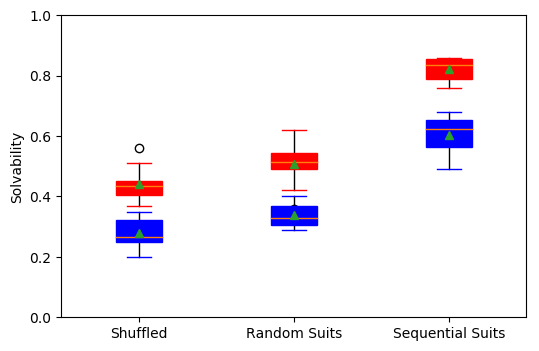
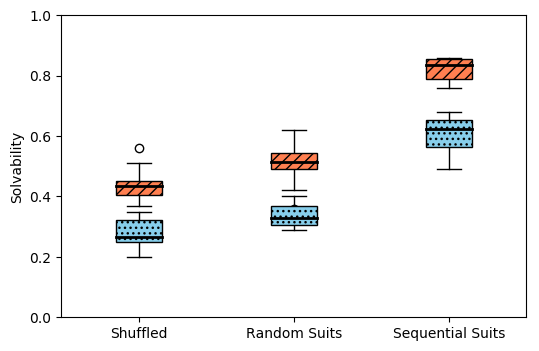
revised figures, more details on entangled components, replaced difficulty with interest

diff --git a/Fujisan.tex b/Fujisan.tex
@@ -629,7 +629,7 @@ E-mail: see http://mark.goadrich.com/schedule.html
 % in the abstract or keywords.
 \IEEEtitleabstractindextext{%
 \begin{abstract}
-    Challenges for physical solitaire puzzle games are typically designed in advance by humans and limited in number. Alternatively, some games incorporate rules for stochastic setup, where the human solver randomly sets up the game board before solving the challenge. \hl{These setup rules} greatly increase the number of possible challenges, but can often generate unsolvable or uninteresting challenges. To better understand \hl{the compromises involved in minimizing undesirable challenges, we examine three games where component design choices can influence the stochastic nature of the resulting challenge generation algorithms.} We evaluate the effect of these components and algorithms on challenge solvability, and challenge difficulty. \hl{We find that algorithms which control randomness through entangling components based on sub-elements of the puzzle mechanics can be simple for the solver to construct yet generate solvable and difficult challenges.}
+    Challenges for physical solitaire puzzle games are typically designed in advance by humans and limited in number. Alternatively, some games incorporate rules for stochastic setup, where the human solver randomly sets up the game board before solving the challenge. \hl{These setup rules} greatly increase the number of possible challenges, but can often generate unsolvable or uninteresting challenges. To better understand \hl{the compromises involved in minimizing undesirable challenges, we examine three games where component design choices can influence the stochastic nature of the resulting challenge generation algorithms.} We evaluate the effect of these components and algorithms on challenge solvability and challenge engagement. \hl{We find that algorithms which control randomness through entangling components based on sub-elements of the puzzle mechanics can be simple for the solver to construct yet generate solvable and interesting challenges.}
 \end{abstract}
 
 % Note that keywords are not normally used for peerreview papers.
@@ -709,11 +709,11 @@ are \hl{physical} solitaire games, for example
 sliding block puzzles \cite{FIFTEEN} (including Rush Hour\footnote{https://www.thinkfun.com/products/rush-hour/}), 
 and Hi-Q (generalized peg solitaire) \cite{PEG}. In these games, solvers must manipulate physical pieces to solve a challenge. Since the initial setup for these games must be executed by the solver, providing the solver with predefined challenges \hl{created offline} and a solution book is common practice. PCG can also be applied to these games by, again, constructing challenges offline and guaranteeing they are solvable, as seen in recent work by Fogleman \cite{RUSHHOUR} and K{\"o}pp \cite{TANGRAM}. 
 
-There are, however, alternative PCG approaches available for physical solitaire games, most popularly demonstrated by the card game Klondike Solitaire. In particular, this game uses an {\it online, stochastic, generate-and-test} PCG algorithm, which is as simple as shuffling the deck of cards at the start of the game. Also of note, the {\it test} portion of the generate-and-test algorithm is left to the solver as they play through the game. Wolter \cite{SOLITAIREVARIANTS} developed the Politaire system, and examines the effect of various shuffling algorithms across multiple solitaire card game variations. One variant called Thoughtful Solitaire, played such that all card locations are known to the solver at the beginning of the game, has been separately found to have setups between 82\% and 91.44\% solvable \cite{THOUGHTFUL}. 
+There are, however, alternative PCG approaches available for physical solitaire games, most popularly demonstrated by the card game Klondike Solitaire \cite{morehead2014complete}. In particular, this game uses an {\it online, stochastic, generate-and-test} PCG algorithm, which is as simple as shuffling the deck of cards at the start of the game. Also of note, the {\it test} portion of the generate-and-test algorithm is left to the solver as they play through the game. Wolter \cite{SOLITAIREVARIANTS} developed the Politaire system, and examines the effect of various shuffling algorithms across multiple solitaire card game variations. One variant called Thoughtful Solitaire, played such that all card locations are known to the solver at the beginning of the game, has been separately found to have setups between 82\% and 91.44\% solvable \cite{THOUGHTFUL}. 
 
-When designing such a random setup process to assemble a challenge, two questions naturally arise: {\it Can all such challenges be solved? How difficult are the created challenges? } \hl{Since these puzzle challenges are created by the solver, they are restricted to using only the components included in the puzzle. However, as much of PCG research involves digital games and puzzles, where algorithms are only limited by computational time and space constraints, there is little research into the relationship between the structural design of physical puzzle components and PCG}. 
+\hl{While some claim that solitaire games without the potential for a winning outcome are ``a rather sad form of amusing oneself,"} \cite{de1981pretzel} \hl{others find a ``catharsis [in] patience" even without perfect solvability} \cite{morehead2014complete}. Thus, when designing such a random setup process to assemble a challenge, \hl{two questions naturally arise for the designer:}{\it What percentage of such challenges can be solved? Are the created challenges interesting?} \hl{Also, since these puzzle challenges are instantiated by the solver, they are restricted to using only the components included in the puzzle. However, as much of PCG research involves digital games and puzzles, where algorithms are only limited by computational time and space constraints, there is little research into the relationship between the structural design of physical puzzle components and PCG}. 
 
-\hl{To understand this relationship, we examine three different styles of physical solitaire games with perfect information that incorporate} {\it online, stochastic, generate-and-test} \hl{PCG algorithms for challenge setup: BoxOff} \cite{BoxOffGAMES} \hl{, a token removal puzzle, Pretzel} \cite{de1981pretzel} \hl{, a card arrangement puzzle, and Fujisan\footnote{http://www.ludism.org/ppwiki/Fuji-san}, a transportation puzzle. Each of these puzzles includes a basic algorithm where simple components (tokens or cards) are randomly shuffled to create a challenge. We define these components to become} {\it entangled} \hl{if their arrangement is no longer independent, either due to algorithmic constraints, or having been subsumed by new, larger components.} We provide detailed descriptions of \hl{entangled game components and} challenge setup algorithms \hl{for each game}, then compare and contrast these using computational \hl{Monte Carlo} simulations. Finally, we evaluate these algorithms with respect to solvability and difficulty. We find that \hl{entanglements allow the incorporation of desirable constraints based on each puzzle's mechanics are thus more successful across both metrics}.
+\hl{To understand this component/algorithm relationship, we examine three different styles of physical solitaire games with perfect information that incorporate} {\it online, stochastic, generate-and-test} \hl{PCG algorithms for challenge setup: BoxOff} \cite{BoxOffGAMES} \hl{, a token removal puzzle, Pretzel} \cite{de1981pretzel} \hl{, a card arrangement puzzle, and Fujisan\footnote{http://www.ludism.org/ppwiki/Fuji-san}, a transportation puzzle. Each of these puzzles includes a basic algorithm where simple components (tokens or cards) are randomly shuffled to create a challenge. We define these components to become} {\it entangled} \hl{if their arrangement is no longer independent, either due to algorithmic constraints, or having been subsumed by new, larger components.} We provide detailed descriptions of \hl{entangled game components and} challenge setup algorithms \hl{for each game}, then compare and contrast these using computational \hl{Monte Carlo} simulations. Finally, we evaluate these algorithms with respect to solvability and interest. We find that \hl{entanglements that incorporate desirable constraints based on each puzzle's mechanics are more successful across both metrics}.
 
 %==================================
 
@@ -730,7 +730,7 @@ BoxOff is a 2D token removal puzzle designed by Stephen Myers  \cite{BoxOffGAMES
 Figure \ref{fig:boxoffbig}. The challenge is solved when every square in the grid has been eliminated.  The solver can eliminate two squares of the same color at a time if either of the following two rules apply.
 \begin{enumerate}
     \item The two squares are adjacent.
-    \item All other squares inside the box that circumscribes the two squares have previously been eliminated.\footnote{Rule 1 is actually subsumed by this rule, however, we find it helpful to separate them into two cases to facilitate our component design discussions later.}
+    \item All other squares inside the box that circumscribes the two squares have previously been eliminated.\footnote{Rule 1 is actually subsumed by this rule, however, we find it helpful to separate them into two cases to facilitate our component design discussions.}
 \end{enumerate}
 
 Figure \ref{fig:boxoffrules} shows an in-progress BoxOff challenge. The solver has a few options available, two of which are highlighted in dashed boxes. They could eliminate the two yellow squares in the upper-left quadrant using Rule 1, or eliminate the two blue squares in the middle using Rule 2. An invalid move is also shown in the upper right quadrant, where Rule 2 would not apply because of the blue square in the circumscribed box around the two red squares.
@@ -743,7 +743,7 @@ Figure \ref{fig:boxoffrules} shows an in-progress BoxOff challenge. The solver h
 \end{figure}
 
 
-Browne and Maire previously investigated altering the game design parameters for BoxOff using Monte Carlo simulation \cite{MCPUZZLE}. They explored multiple grid sizes and numbers of colors, ultimately finding that challenges generated for the original 6$\times$8 puzzle configuration described by Myers were highly solvable and robust against random solvers. Other configurations, either of smaller board sizes, or more colors, exhibited poor solvability. In particular, we will examine the 4$\times$6 board with four colors, where challenge solvability was approximately 25\%, and the 6$\times$6 board with six colors, where challenge solvability was less than 5\%.
+Browne and Maire previously investigated altering the game design parameters for BoxOff using Monte Carlo simulation \cite{MCPUZZLE}. They explored multiple grid sizes and numbers of colors, $(k, n, c)$, where $k \times n$ is the size of the grid, and $c$ is the number of colors, ultimately finding that challenges generated for the original (6, 8, 3) puzzle configuration described by Myers were highly solvable and robust against random solvers. Other configurations, either of smaller board sizes, or more colors, exhibited poor solvability. In particular, we will examine the (4, 6, 4) puzzle, where challenge solvability was approximately 25\%, and the (6, 6, 6) puzzle, where challenge solvability was less than 5\%.
 
 %\begin{figure}[t]
 %\centering
@@ -761,7 +761,7 @@ With these components, the solver can employ a simple shuffling algorithm to cre
     {\it \bf Shuffled:} Shuffle the color tokens randomly, and arrange them into a grid.
 \end{quote}
 
-THIS NEEDS WORK FOR BOTH 4x6 and 6x6
+THIS NEEDS WORK FOR BOTH (4, 6, 4) and (6, 6, 6)
 We can use the multinomial theorem to determine that this method can create
 $\frac{24!}{4!^{6}??} \approx 10^{???}$ possible challenges.  We divide by ?????? here and in subsequent calculations to account for BoxOff challenges displaying rotational, horizontal, and vertical symmetry, however, this slightly underestimates due to some challenges displaying more than one symmetry.
 
@@ -770,7 +770,7 @@ This shuffling works well on moderate sized boards with few colors, but as demon
 \begin{figure}[t]
 \centering
 \includegraphics[width=6.6cm]{boxoff666basic.png}
-\caption{A Sample 6$\times$6 BoxOff challenge with six colors, generated with a simple shuffle of the 36 color tokens. }
+\caption{A sample (6, 6, 6) BoxOff challenge, generated with a simple shuffle of the 36 color tokens. }
 \label{fig:boxoff666}
 \end{figure}
 
@@ -792,7 +792,7 @@ For both the 4$\times$6 and 6$\times$6 grids, each tile is composed of exactly t
 \begin{figure}[t]
 \centering
 \includegraphics[width=8.8cm]{boxoffcycle.png}
-\caption{Cycle of color connections used to construct L-shaped tiles for BoxOff challenges, 4$\times$6 with four colors on the left, and 6$\times$6 BoxOff challenges with six colors on the right.}
+\caption{Cycle of color connections used to construct L-shaped tiles for BoxOff challenges, (4, 6, 4) on the left, and (6, 6, 6) challenges on the right.}
 \label{fig:boxoffcycle}
 \end{figure}
 
@@ -804,54 +804,48 @@ The algorithm to create a challenge then is as follows:
     {\it \bf L-Tiles:} Shuffle and flip the tiles randomly, then arrange into a grid of connected 2$\times$3 subgrids. 
 \end{quote}
 
-Figure \ref{fig:boxofftiles} shows a 4$\times$6 grid created with L-tiles. To physically play BoxOff with this tile setup, the solver will need to place neutral tokens on each square as they are eliminated, continuing until the board is full of tokens. 
+Figure \ref{fig:boxofftiles} shows a (4, 6, 4) grid created with L-tiles. To physically play BoxOff with this tile setup, the solver will need to place neutral tokens on each square as they are eliminated, continuing until the board is full of tokens. 
 
 \begin{figure}[t]
 \centering
 \includegraphics[width=6.6cm]{boxoff46tiles.png}
-\caption{A sample 4$\times$6 BoxOff challenge with four colors, generated using L-shaped tiles. }
+\caption{A sample (4, 6, 4) BoxOff challenge, generated using L-shaped tiles. }
 \label{fig:boxofftiles}
 \end{figure}
 
 \subsection{Evaluation}
 
 We encoded a Monte Carlo BoxOff challenge generator using C\#, and implemented a breadth-first solver for BoxOff challenges. For each PCG algorithm, we generated 1000 random challenges. For each generated challenge in our trials, we recorded if the challenge was solvable. The code used for our simulations is available on Github \footnote{http://github.com/mgoadric/fujisan}. 
-To enable testing for statistical significance on solvability between these algorithms, we divided our pool of generated challenges into 10 trials of 100 challenges. We repeated this for both the 4$\times$6 with four colors puzzle and the 6$\times$6 with six colors puzzle.
+To enable testing for statistical significance on solvability between these algorithms, we divided our pool of generated challenges into 10 trials of 100 challenges. We repeated this for both the (4, 6, 4) puzzle and the (6, 6, 6) puzzle.
  
-We will use the two criteria of solvability and difficulty to quantify each of the above \hl{components and algorithms. }
-First, we judge a PCG algorithm to be working well when a high percentage of generated challenges are solvable by our solver. Beyond solvability, we also wish for PCG algorithms to have a strong inclination to generate interesting and difficult challenges for the solver. 
+We will use two criteria to quantify each of the above components and algorithms.
+First, we judge a PCG algorithm to be working well when a high percentage of generated challenges are solvable by our solver. Beyond solvability, we also wish for PCG algorithms to have a strong inclination to generate interesting challenges for the solver. 
 
 \subsubsection{Solvability}
 
 \begin{figure}[t]
-\includegraphics[width=8.8cm]{boxonsolve.png}
-\caption{Effect of challenge generation algorithms on solvability for BoxOff 4$\times$6 with four colors. $P(S_p)$ denoted in red, and $P(S_r)$ shown in blue.}
+\includegraphics[width=8.8cm]{boxoffsolvability.png}
+\caption{Effect of challenge generation algorithms on solvability for BoxOff (4, 6, 4) and (6, 4, 6). $P(S_p)$ denoted in red, and $P(S_r)$ shown in blue.}
 \label{fig:boxoffsolvediff}
 \end{figure}
 
-\begin{figure}[t]
-\includegraphics[width=8.8cm]{6x6solvediff.png}
-\caption{Effect of challenge generation algorithms on solvability for BoxOff 6$\times$6 with six colors. $P(S_p)$ denoted in red, and $P(S_r)$ shown in blue.}
-\label{fig:boxoff666solvediff}
-\end{figure}
-
-Figure \ref{fig:boxoffsolvediff} shows the challenge solvability in red for the 4$\times$6 with four color BoxOff. This plot displays the distribution of the two PCG algorithms across the 10 trials in a box-and-whisker plot. The mean for each method is marked with a green triangle. 
+Figure \ref{fig:boxoffsolvediff} shows the challenge solvability, in red with slashes, for the (4, 6, 4) BoxOff. This plot displays the distribution of the two PCG algorithms across the 10 trials in a box-and-whisker plot.  
 
 We find the {\bf L-Tiles} setup method produces solvable challenges at a probability of 0.88, a marked increase over the {\bf Shuffled} probability of 0.27, with this difference being statistically significant.
-Similarly, Figure \ref{fig:boxoff666solvediff} shows the solvability distributions in red for the 6$\times$6 with six color puzzle. We again see a drastic increase in solvability, moving from 0.03 for {\bf Shuffled} up to 0.57 for {\bf L-Tiles}. 
+Similarly, Figure \ref{fig:boxoffsolvediff} also shows the solvability distributions in red for the (6, 6, 6) puzzle. We again see a drastic increase in solvability, moving from 0.03 for {\bf Shuffled} up to 0.57 for {\bf L-Tiles}. 
 
-\subsubsection{Difficulty}
+\subsubsection{Interest}
 
-Following Browne and Maire \cite{MCPUZZLE}, if a challenge is solvable by the solver choosing random moves each time, then the challenge lacks difficulty and interest. Denoting the probability of solvability using the breadth-first search solver as $P(S_p)$ and the probability of the random solver as $P(S_r)$, we can calculate $P(S_p) - P(S_r)$, the difference between the intelligent and random solvability. Figures \ref{fig:boxoffsolvediff} and \ref{fig:boxoff666solvediff} also show in blue the solvability rate for these algorithm when using a random solver. 
+Following Browne and Maire \cite{MCPUZZLE}, if a challenge is solvable by the solver choosing random moves each time, then the challenge lacks interest. Denoting the probability of solvability using the breadth-first search solver as $P(S_p)$ and the probability of the random solver as $P(S_r)$, we can calculate $P(S_p) - P(S_r)$, the difference between the intelligent and random solvability. Figure \ref{fig:boxoffsolvediff} also shows, in blue with dots, the solvability rate for these algorithm when using a random solver. 
 
-We see in both cases for {\bf L-Tiles}, there is an increase in the random solver performance over {\bf Shuffled}. However, there remains a significant gap between the general and random solvability in both puzzles. For the 4$\times$6 with four colors, this difference is 0.62, and for 6$\times$6 with six colors, this difference is 0.495. We can conclude that while more easy challenges generated from {\bf L-Tiles}, the large majority of generated solvable challenges involve difficult solutions.
+We see in both cases for {\bf L-Tiles}, there is an increase in the random solver performance over {\bf Shuffled}. However, there remains a significant gap between the general and random solvability in both puzzles. For the (4, 6, 4) puzzle, this difference is 0.62, and for the (6, 6, 6) puzzle, this difference is 0.495. We can conclude that while more easy challenges generated from {\bf L-Tiles}, the large majority of generated solvable challenges involve interesting solutions.
 
 %=================================================
 
 \section{Pretzel}
 The Montana family of patience card games includes variations such as Gaps, Spaces, Vacancies, Clown, Paganini, Red Moon, and Blue Moon. One variant, which allows no re-shuffles or re-deals, is a puzzle described and named by de Bruijn \cite{de1981pretzel}, called Pretzel solitaire.
 
-Shuffle a deck of $S$ suits, each with $V$ values. Deal the shuffled cards face-up into a grid with $S$ rows, each with $V$ columns. Remove the lowest valued card of each suit (traditionally aces) and place them in a new column to the left of the existing grid in a prescribed order (traditionally, from top to bottom: spades, hearts, diamonds, clubs). Doing so vacates $S$ cells in the grid, thereafter called holes. A sample Pretzel setup with $S=4$ and $V=4$ is shown in Figure \ref{fig:pretzelbasic}.
+To set up a Pretzel challenge, denoted as $(S,V)$, the solver shuffles a deck of $S$ suits, each with $V$ values. They deal the shuffled cards face-up into a grid with $S$ rows, each with $V$ columns. They then remove the lowest valued card of each suit (traditionally aces) and place them in a new column to the left of the existing grid in a prescribed order (traditionally, from top to bottom: spades, hearts, diamonds, clubs). Doing so vacates $S$ cells in the grid, thereafter called holes. A sample Pretzel setup with $S=4$ and $V=4$ is shown in Figure \ref{fig:pretzelbasic}.
 
 The solver's goal is to arrange all cards into ascending sorted order, one suit per row, following a single rule:
 
@@ -883,10 +877,14 @@ In his earlier paper, de Bruijn empirically established a solvability of 45\% fo
     {\bf Random Suits:} Divide the deck into $S$ smaller decks, each comprising all cards of a single suit. Shuffle each small deck separately. Next, take the top card of each small deck, shuffle these $S$ cards together, and deal them out. Again, take the top card of each small deck, shuffle these cards together, and continue dealing out. Proceed in like fashion until all cards have been dealt.
 \end{quote}
 
-HOW TO CONSTRUCT THE FOLLOWING AS A GENERALIZED EXPRESSION?
+%HOW TO CONSTRUCT THE FOLLOWING AS A GENERALIZED EXPRESSION?
 
 The number of challenges that can result from the Random Suits setup algorithm for the (4,4) case is
-(16 \times 12 \times 8 \times 4) \times (12 \times 9 \times 6 \times 3) \times (8 \times 6 \times 4 \times 2) \times (4 \times 3 \times 2 \times 1) \approx $10^{11}$.
+$\prod_{n = 1}^4n^4(4!)
+%(16 \times 12 \times 8 \times 4) \times (12 \times 9 \times 6 \times 3) \times (8 \times 6 \times 4 \times 2) \times (4 \times 3 \times 2 \times 1) 
+\approx 10^{11}$.
+
+WHICH 4 IS V and WHICH IS S?
 
 \begin{quote}
     {\bf Sequential Suits:} Divide the deck into $S$ smaller decks, each comprising all cards of a single suit. Shuffle each small deck separately. Deal the top card from the first small deck, then the top card from the second small deck, and so on.  After the top card of each small deck has been dealt, return to the first small deck and deal the top card, then the top card of the second small deck, etc. Proceed in like fashion until all cards have been dealt.
@@ -894,9 +892,8 @@ The number of challenges that can result from the Random Suits setup algorithm f
 
 The Sequential Suits setup algorithm generates $V!^{S}$ distinct challenges. For the (4,4) case, there are $4!^{4} \approx 10^{5}$ distinct challenges.
 
-Depending on the ratio of $S$ to $V$, challenges generated by this algorithm exhibit distinct vertical or diagonal suit stripes or patterns across the play grid.
-
 Figure \ref{fig:pretzelsequential} shows a sample Pretzel solitaire challenge with four suits and eight ranks, generated with the Sequential Suits method.
+Depending on the ratio of $S$ to $V$, challenges generated by this algorithm exhibit distinct vertical or diagonal suit stripes or patterns across the play grid. 
 
 \begin{figure}[t]
 \centering
@@ -905,18 +902,17 @@ Figure \ref{fig:pretzelsequential} shows a sample Pretzel solitaire challenge wi
 \label{fig:pretzelsequential}
 \end{figure}
 
-
 \subsection{Evaluation}
 
 As with BoxOff, we encoded a Monte Carlo Pretzel challenge generator using C\#, and a breadth-first solver for Pretzel challenges. For each PCG algorithm, we generated 1000 random challenges. For each generated challenge in our trials, we recorded whether the challenge was solvable, and if so, we also recorded the minimum solution length found with our solver. The code used for our simulations is available on Github \footnote{http://github.com/jdroscha/pretzel-solitaire-solver}. To enable testing for statistical significance on solvability between these algorithms, we divided our pool of generated challenges into 10 trials of 100 challenges. 
 
-Figure \ref{fig:pretzel44solved} shows the distribution of solvability for the three PCG algorithms across the 10 trials in a box-and-whisker plot for the (4,4) case. The mean for each method is marked with a green triangle.
+\subsubsection{Solvability}
+Figure \ref{fig:pretzel44solved} shows the distribution of solvability for the three PCG algorithms across the 10 trials in a box-and-whisker plot for the (4,4) case. 
 
 Figure \ref{fig:pretzel44solved} also illustrates the susceptibility of the (4,4) case to solution by random decisions during play, an undesirable trait. By adding a full decision tree analysis to our solver, we determined the somewhat surprising cause for the high rate of success exhibited by random play. For the (4,4) case, nearly one in three solvable challenges is unlosable. In such ``challenges'', any sequence of legal moves eventually leads to the solution state.
 
 %\subsubsection{Ease of Physical Setup}
 
-\subsubsection{Solvability}
 
 \begin{figure}[t]
 \includegraphics[width=8.8cm]{pretzelsolve4x4.png}
@@ -924,7 +920,7 @@ Figure \ref{fig:pretzel44solved} also illustrates the susceptibility of the (4,4
 \label{fig:pretzel44solved}
 \end{figure}
 
-\subsubsection{Difficulty}
+\subsubsection{Interest}
 For the 4x4
 
 Shuffled $P(S_p) - P(S_r) = 0.162$
@@ -947,7 +943,7 @@ Sequential Suits $P(S_p) - P(S_r) = 0.219$
 \end{figure}
 
 \begin{figure}[t]
-\includegraphics[width=8.8cm]{pretzel48lengthhist.png}
+\includegraphics[width=8.8cm]{pretzel48length.png}
 \caption{Effect of challenge generation algorithms on solution length for Pretzel, four suits and eight ranks.}
 \label{fig:pretzelfullsolve}
 \end{figure}
@@ -1103,26 +1099,31 @@ We encoded a Monte Carlo Fujisan challenge generator using C\#, along with an A*
 For each generated challenge in our trials, we recorded if the challenge was solvable, and if so, we also recorded the minimum solution length found with our A* solver. The code used for our simulations is available on Github \footnote{http://github.com/mgoadric/fujisan}. 
 \hl{To enable testing for statistical significance on solvability between these algorithms, we divided our pool of generated challenges into 10 trials of 100 challenges. }
  
-Figure \ref{fig:strategycomp} shows the distribution of solvability for the four PCG algorithms across the 10 trials in a box-and-whisker plot. The mean for each method is marked with a green triangle. Each method produces a healthy \hl{probability} of solvable challenges; every trial was above 75\% solvable. {\bf Shuffled} \hl{has} the lowest mean value for solvability and \hl{this} result is significantly lower than the other three algorithms, which is confirmed by t-tests using a p-value of 0.05. Within the top three algorithms, only {\bf Dominoes} is statistically higher than {\bf piecepack}. 
+Figure \ref{fig:strategycomp} shows the distribution of solvability for the four PCG algorithms across the 10 trials in a box-and-whisker plot. Each method produces a healthy \hl{probability} of solvable challenges. {\bf Shuffled} \hl{has} the lowest mean value for solvability at 85\% and \hl{this} result is significantly lower than the other three algorithms, which is confirmed by t-tests using a p-value of 0.05. Within the top three algorithms, only {\bf Dominoes} is statistically higher than {\bf piecepack}. 
 
-SAY MORE HERE NOW THAT CONNECTEDNESS IS IN GENERAL DISCUSSION BELOW
-\subsubsection{Difficulty}
+\subsubsection{Interest}
 
-Unfortunately, the difficulty metric of Browne and Maire \cite{MCPUZZLE} is unsuitable for Fujisan. Across all of our PCG algorithms, we found that $P(S_r)$, the probability that a random solver would win, was less than 0.003, making their $P(S_p) - P(S_r)$ metric equivalent to solvability. 
+Applying the interest metric of Brown and Maire \cite{MCPUZZLE} across all of our PCG algorithms, we found that $P(S_r)$, the probability that a random solver would win, was less than 0.003, making $P(S_p) - P(S_r)$ equivalent to solvability. \hl{As our goal is to determine if the above algorithms change the interest distribution of generated challenges, we consider two other measures found by 
+Jaru{\v{s}}ek and Pel{\'a}nek to sometimes correlated with challenge difficulty 
+the minimum number of moves required to solve the challenge, and the number of counter-intuitive moves along the minimum solution path.} \cite{jaruvsek2010difficulty}
+\cite{jaruvsek2011determines}
 
-Instead, we define challenge difficulty here to be the minimum number of moves required to solve the challenge, and are interested in the distribution of challenge difficulties generated by each algorithm. We compare here the median level of challenge difficulty generated by each algorithm. The shortest possible solution to a Fujisan challenge involves eight moves, while 
+\hl{First, we determined that a move in Fujisan is counter-intuitive if it involves moving a Priest further away from the summit. For each solvable challenge, we counted the number of counter-intuitive moves used on the minimum solution path length. Using this metric, values ranged from 0-8, and we found that there was no statistical difference between the four algorithms.}
+
+Second, we calculated the distribution of \hl{minimum solution path length} generated by each algorithm. We compared here the median \hl{length} generated by each algorithm. The shortest possible solution to a Fujisan challenge involves eight moves, while 
 the longest-known constructed challenge requires 62 moves\footnote{http://www.ludism.org/ppwiki/Fuji-san\#Heading9}.
 
 \begin{figure}[t]
 \centering
 \includegraphics[width=8.5cm]{standalonediff2.png}
-\caption{Histograms showing the effect of challenge generation algorithms on difficulty.}
+\caption{Histograms showing the effect of challenge generation algorithms on minimum solution length.}
 \label{fig:difficultycomp}
 \end{figure}
 
-Figure \ref{fig:difficultycomp} shows histograms of the minimum solution length for solvable challenges, pooled across all trials for each algorithm. The median is denoted with a dotted line. Our algorithms appear to follow a Poisson distribution rather than a normal distribution, since the smallest possible solution length for any challenge is 8, and the maximum solution length is currently unbounded. We employ a Kruskal-Wallis H-test \cite{KRUSKAL} to determine if the median difficulty of our four algorithms is statistically the same, and we reject this null hypothesis very strongly, with a p-value of $6.4 \times 10^{-9}$.
+Figure \ref{fig:difficultycomp} shows histograms of the minimum solution length for solvable challenges, pooled across all trials for each algorithm. The median is denoted with a dotted line. Our algorithms appear to follow a Poisson distribution rather than a normal distribution, since the smallest possible solution length for any challenge is 8, and the maximum solution length is currently unbounded. We employ a Kruskal-Wallis H-test \cite{KRUSKAL} to determine if the median length of our four algorithms is statistically the same, and we rejected this null hypothesis very strongly, with a p-value of $6.4 \times 10^{-9}$.
 
-The algorithm responsible for this result is {\bf Engraved Tiles}. We can see a strong tendency to have shorter solution lengths, with almost 10\% of challenges having a solution length of eight or nine, whereas for {\bf Dominoes}, this is true for only 3\% of challenges. In {\bf Engraved Tiles}, there are five tiles that contain a 0 value; since there will be ten total tiles hidden, on average a challenge will contain 2.5 zeros values. It appears that 0 values are one part of what makes Fujisan challenges interesting, since having fewer 0 values decreases the challenge difficulty.
+The algorithm responsible for this result was {\bf Engraved Tiles}. We can see a strong tendency to have shorter solution lengths, with almost 10\% of challenges having a solution length of eight or nine, whereas for {\bf Dominoes}, this is true for only 3\% of challenges. In {\bf Engraved Tiles}, there are five tiles that contain a 0 value; since there will be ten total tiles hidden, on average a challenge will contain 2.5 zeros values. It appears that 0 values are one part of what makes Fujisan challenges interesting.
+
 
 %==========================================================
 
@@ -1168,36 +1169,31 @@ The algorithm responsible for this result is {\bf Engraved Tiles}. We can see a 
 
 %Table \ref{table_example} summarizes our results on the three evaluation metrics. We can see computational evidence that the original {\bf piecepack} ruleset is an improvement over both the {\bf Pure Random} and {\bf Shuffled} setup algorithm as hoped by the designer. While {\bf Engraved Tiles} simplifies the ease of physical setup over the {\bf piecepack} version, it is at the cost of challenge difficulty. The {\bf Dominoes} algorithm maintains this easy setup and returns the challenge generation to a reasonable difficulty distribution.
 
-In each of the explored puzzles above, we see that entangled components can be used to produce challenges with higher solvability without sacrificing the interesting qualities of the puzzle. Here we provide evidence that this is due to aligning the entanglements with desirable portions of the underlying puzzle mechanics. 
+\hl{Recall that we define components to become} {\it entangled} \hl{if their arrangement is no longer independent, either due to algorithmic constraints, or having been subsumed by new, larger components. In each of the explored puzzles above, we see that entangled components can be used to produce challenges with higher solvability without sacrificing the interesting qualities of the puzzle. Here we provide evidence that this is due to aligning the entanglements with desirable portions of the underlying puzzle mechanics. For each puzzle, metrics can be found that are correlated with higher solvability. Entangled components can then be biased toward solvability by encouraging these metrics in generated challenges.}
 
 %Why does entanglement work for BoxOff?
 
-In BoxOff, Rule 1 underscores the importance of adjacent grid squares of the same color, as they are the first moves available in the game. The 4$\times$6 board contains 38 unique pairs of adjacent grid squares. If we randomly distribute the 4 colors, on average a pair will be the same color 22\% of the time. However, if we separate the generated challenges by solvability, we see in Figure \ref{fig:boxoffconnected} that while unsolvable challenges average pair equality is 20\%, for solvable challenges the average increases to 26\%, and this difference is statistically significant.
+In BoxOff, Rule 1 underscores the importance of adjacent grid squares of the same color, as they are the first moves available in the game. The (4, 6, 4) board contains 38 unique pairs of adjacent grid squares. If we randomly distribute the four colors using the {\bf Shuffled} method, on average a pair will be the same color 22\% of the time. We define this metric as {\it pair equality}. However, if we separate the generated challenges by solvability, we see in Figure \ref{fig:boxoffconnected} that while unsolvable challenges average pair equality is 20\%, for solvable challenges the average increases to 26\%, and this difference is statistically significant.
 
-Through entanglement, the L-Tiles constrain adjacent pairs such that at least eight of them to be the same color, resulting is a minimum of 21\% pair equality. Thus, L-Tile challenges are more likely to be in the solvable range, as shown in ,.... FINISH ME. 
-32\% untiles
-34\% tiles
-again significant
+Through entanglement, the {\bf L-Tiles} constrain adjacent pairs such that at least eight of them are the same color, resulting is a minimum of 21\% pair equality. Thus, L-Tile challenges are more likely to be in the solvable range, as shown in Figure \ref{fig:boxoffconnected}, with 32\% pair equality for unsolvable L-Tile challenges, and 34\% pair equality for those that are solvable.
 
 \begin{figure}[t]
-\includegraphics[width=8.8cm]{boxoffneighborsim.png}
-\caption{Average neighbor similarity for 4$\times$6 with four color BoxOff challenges across each setup algorithm. }
+\includegraphics[width=8.8cm]{pairequal.png}
+\caption{Average pair equality for (4, 6, 4) color BoxOff challenges across each setup algorithm. Solvable challenges shown in black, and unsolvable challenges shown in white.}
 \label{fig:boxoffconnected}
 \end{figure}
 
-Why does entanglement work for Pretzel?????
+WHY DOES ENTANGLEMENT WORK FOR PRETZEL??????
 
+For Fujisan, the entangled components are a direct result of the puzzle movement mechanics. We first develop a metric called {\it connectivity} based on Rule 2 to explore the connections between steps in a challenge. We say step $A$ is connected to step $B$ in Fujisan if there is a move available according to Rule 2 from $B$ to $A$. This metric, only an approximation of true puzzle connectivity as it ignores connections possible from Rule 2.a with intermediate Priests, contains enough information to bias our entangled components. 
 
-Why does entanglement work for Fujisan?
+Figure \ref{fig:connected} shows the average step connectivity within a challenge for each setup algorithm, differentiating solvable challenges in black from unsolvable challenges in white. 
+In the {\bf Shuffled} algorithm, we can see a large divide between solvable and unsolvable challenges, and across all algorithms, higher connectivity is always related to higher solvability. Also, both {\bf piecepack} and {\bf Dominoes} require that each step has two unique values. In these two algorithms, this uniqueness constraint strongly increases the connectivity of both solvable and unsolvable challenges, but the divide remains intact.
 
-For Fujisan, there are elements of two puzzle mechanics that are incorporated into the entangled components. We first explore the connections between steps in a challenge. We say step $A$ is connected to step $B$ in Fujisan if there is a move available according to Rule 2 from $B$ to $A$. While critical to solving most challenges, we simplify our connectedness calculation by ignoring the impact of intermediate Priests between $B$ and $A$. 
-
-Figure \ref{fig:connected} shows the average step connectedness within a challenge for each setup algorithm, differentiating solvable challenges in black from unsolvable challenges in white. We can see a large divide between solvable and unsolvable challenges on this metric for each algorithm, with higher connectivity always related to higher solvability. Also, both {\bf piecepack} and {\bf Dominoes} require that each step has two unique values. In these two algorithms, this uniqueness constraint strongly increases the connectedness of both solvable and unsolvable challenges, but the divide remains intact.
-
-Second, for {\bf Engraved Tiles} and {\bf Dominoes}, repetition of pairs of values on a step are either restricted to the summit or not allowed elsewhere in the challenge. This causes the connections between steps to be more distributed and bind the puzzle together as a whole, instead of breaking apart into disjoint pieces. {\bf Dominoes} combines two constraints to create well-connected and well-distributed challenges.
+However, even if each step is well-connected to other steps, the connections could form patterns and loops between the steps, thus breaking the potential Priest movement into disjoint sets. If we add a restriction that each step pair in a challenge be a unique set of values, this causes the connections between steps to be more distributed and bind the puzzle together as a whole. In our experiments, we found that Shuffled challenges which fit this restriction can be solved at a rate of 89\%, a statistical improvement over the general Shuffled challenge population. As we noted earlier, the {\bf Engraved Tiles} and {\bf Dominoes} incorporate this prohibition on the repetition of steps as they subsume the coins into larger components. And in fact, the most successful algorithm {\bf Dominoes} combines both of these constraints to create well-connected and well-distributed challenges.
 
 \begin{figure}[t]
-\includegraphics[width=8.8cm]{connectedness2.png}
+\includegraphics[width=8.8cm]{connectivity.png}
 \caption{Average connectedness for Fujisan challenges across each setup algorithm. 
 Solvable challenges shown in black, and unsolvable challenges shown in white.}
 \label{fig:connected}
